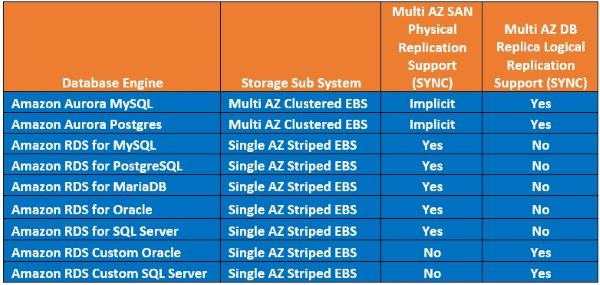
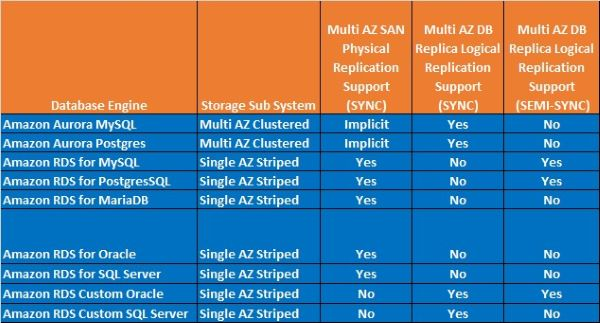
added semi-sync details

diff --git a/posts/zero-dataloss-dr-using-rds/index.md b/posts/zero-dataloss-dr-using-rds/index.md
@@ -90,8 +90,11 @@ To restore a RDS Cloud Native database would need a restore of the full backup +
 Disaster Recovery in Amazon RDS is based on Multi AZ or Multi Region database copies where we have a physically separate database copy located in a different physical location. This Database copy could be replicated using SAN or Database technologies with the latter protecting against disk corruptions. The replication used between database copies to keep them identical or near identical as possible could use asynchronous or synchronous replication depending on the replication technology used.
   
 ## Logical Replication vs Physical Replication
- 'How' we replicate RDS Database replication for DR is generally considered to be either Synchronous (SYNC) where we wait for data to be committed on both the primary RDS database in its AZ and standby RDS database in a different AZ before continuing or Asynchronous(ASYNC) where we  send the data from the primary RDS database in its AZ to the standby RDS database in a different AZ but do not wait for data to be committed. Amazon Aurora also provides Synchronous Clustered where we allow the decoupled storage to perform replication with no direct waiting once handed to the storage tier to complete.
-These 3 types of replication are depicted below:
+ 'How' we replicate RDS Database for DR is generally considered to be either Synchronous (SYNC) where we wait for data to be committed on both the primary RDS database in its AZ and standby RDS database in a different AZ before continuing or Asynchronous(ASYNC) where we  send the data from the primary RDS database in its AZ to the standby RDS database in a different AZ but do not wait for data to be committed. For database engines RDS Postgres and RDS MySQL we also have the concept of Semi-Synchronous(SEMISYNC). SEMISYNC requires 2 replica's to support the primary database, where the commit is only considered persisted when 1 of the 2 replica's has confirmed the changes have been recieved. Note we say recieved not applied so in theory a double outage of both the primary and replica in receipt of change may still have a chance of data loss.
+
+  Amazon Aurora also provides Synchronous Clustered where we allow the decoupled storage to perform replication with no direct waiting once handed to the storage tier to complete.
+
+These 4 types of replication are depicted below:
   
 ![Replication Async vs Sync](images/pic9_replication_sync_vs_async.jpg "Figure 9. Replication Async vs Sync")
   
@@ -99,17 +102,17 @@ These 3 types of replication are depicted below:
 
 Using a physical DR copy, where the replication is at the SAN Level tracking disk block changes. This type of replication is always synchronous. Within Amazon RDS this is referred to as Multi AZ replication and only supports Multi AZ not Multi Region. One of the drawbacks of physical replication is that it will replicate disk corruptions. Persisted disk corruptions should be considered a very rare occurrence but never the less they need to be catered for. As a physically replicated DR uses synchronous replication we can assume an RPO of 0 when not dealing with disk corruptions.
 
-Using a logical DR copy, where the replication is at the DB level tracking DB transactional changes. This can be either synchronous where supported or asynchronous replication. One of the key advantages of logical replication is that it supports both cross AZ and cross Region replication. Logical database copies are referred to as Replica copies. For a logical DR copy disk corruption should not be replicated and this is key point for any ZDLDR solution. If the logical replication is asynchronous it has the potential to drift (Lag) behind the Primary site, but this doesn't necessarily mean data loss if site switches are planned or graceful.
+Using a logical DR copy, where the replication is at the DB level tracking DB transactional changes. This can be either synchronous where supported or asynchronous replication, but if using 2 replica and RDS MySQL or RDS Postres we have the semi-synchronous mode as well discusesed above. One of the key advantages of logical replication is that it supports both cross AZ and cross Region replication. Logical database copies are referred to as Replica copies. For a logical DR copy disk corruption should not be replicated and this is key point for any ZDLDR solution. If the logical replication is asynchronous it has the potential to drift (Lag) behind the Primary site, but this doesn't necessarily mean data loss if site switches are planned or graceful.
 
 Using a clustered physical copy, where the replication is handled by the intelligent storage tier mirroring multiple copies of data across all available AZs. This is only supported for Amazon Aurora which uses a clustered decoupled storage layer, here the physical replication must be replicated at least 4 ways across all available AZs to be considered in sync and eventually 6 ways, its uses what's called a 4 of 6 Quorum for writes. Due to the always synchronous clustered storage replication of Aurora we can assume an RPO of 0. We should note that Amazon Aurora clustered replication is only supported within the same region, though cross regions replication is supported asynchronously. Disk corruptions present on Amazon Aurora will selfheal from one of the healthy copies of the data, there will be a minimum of 4 copies and eventually 6 so this is very effective against disk corruption. 
 
-'What' and 'How' we replicate with regard to Amazon RDS can be a Logically Replicated Replica for Amazon RDS or a Physically Replicated Replica if using Amazon Aurora or lastly a Physically Replicated Multi AZ copy for Amazon RDS.
+'What' and 'How' we replicate with regard to Amazon RDS can be a Logically Replicated Replica(s) for Amazon RDS or a Physically Replicated Replica if using Amazon Aurora or lastly a Physically Replicated Multi AZ copy for Amazon RDS.
 
 A replica in Amazon RDS or Amazon Aurora represents a database that also has the potential to be used as an additional Read Only copy of the live database while still being kept in sync with all changes. Using Amazon RDS Oracle there is an extra license fee  to use a Read Only copy known as Active Dataguard, hence with this database engine we can also have the replica in a recovery mode only not accessible for Read Only access where that license fee is then not required this is called a mounted replica. Amazon Aurora Replica are based on the decoupled clustered storage that is automatically replicated across all AZs. This allows Amazon Aurora replica's to be stood up with no extra overhead or copying of transactions. Furthermore for Amazon Aurora we don't even need to stand up replica as the potential to create one is still there at any time as the data is clustered across all available AZ to facilitate that.
 
-Logical replication runs asynchronously for Cloud Enabled RDS Replica's RDS Oracle, RDS Postgres, RDS MySQL and RDS MariaDB. One exception is RDS SQL Server which utilises a feature called 'Always On' or 'Mirroring' where the replication to the secondary site is a logical synchronous apply under the covers. The other exception is Oracle RDS Custom, using RDS Custom users are able to access the underlying operating system and also make certain customisations that are not possible under normal Amazon RDS Regular. One of the customisations that is possible for Oracle is to setup logical synchronous replication to the replica database.
+Logical replication runs asynchronously for Cloud Enabled RDS Replica's RDS Oracle, RDS Postgres, RDS MySQL and RDS MariaDB. But can run semi-synchronous if using RDS Postgres or RDS MySQL with 2 Replica's. RDS SQL Server which utilises a feature called 'Always On' or 'Mirroring' where the replication to the secondary site is a logical synchronous apply under the covers. The other exception is Oracle RDS Custom, using RDS Custom users are able to access the underlying operating system and also make certain customisations that are not possible under normal Amazon RDS Regular. One of the customisations that is possible for Oracle is to setup logical synchronous replication to the replica database.
 
-We can see below which database engines support SYNC replication so therefore RPO 0 depending on the replication type.
+We can see below which database engines support SYNC and SEMISYNC replication so therefore potentially an RPO 0 depending on the replication type.
   
 ![RDS Engines that support Sync](images/pic10_table_sync_support.jpg "Figure 10. RDS Engines that support Sync")
   
@@ -128,7 +131,7 @@ EBS where our database s/w and data is stored is redundant and highly available,
 
 In general a Level 1 failure should not result in potential data loss unless there is a disk corruption, but even disk corruption to some degree can be minimised depending on how Multi AZ copies are created.
 
-The next level of failure would be an entire Availability Zone failure, let's call this a failure at Level 2. A Level 2 failure would need a disaster recovery site to continue the operation of the database service. If using a Multi AZ database setup then there should be no data loss for synchronously replicated databases. For asynchronously replicated database there could be some lag and potential data loss. If there is no multi AZ RDS database then it's also possible to use backups to reinstate the database service but these could be upto 5 minutes behind the lost site.
+The next level of failure would be an entire Availability Zone failure, let's call this a failure at Level 2. A Level 2 failure would need a disaster recovery site to continue the operation of the database service. If using a Multi AZ database setup then there should be no data loss for synchronously replicated databases. For asynchronously replicated database there could be some lag and potential data loss. For semi-synchrounsly replicated databases there should be zero datalos if no futher impacting issue on the site that has confirmed receipt of the changes. If there is no multi AZ RDS database then it's also possible to use backups to reinstate the database service but these could be upto 5 minutes behind the lost site.
 
 The next level of failure would be loss of an entire Region(s), let's call this a failure at Level 3. A Level 3 failure always has the potential for data loss, as database replication across regions will be asynchronous due to the distances data must travel to be replicated.  Multi region backups will lag even further behind the live Region as well. We could possibly assume an RPO of minutes for cross region DR, though this is dependent as mentioned on speed, distance and database load activity.
 
@@ -150,12 +153,12 @@ Putting all of this together we can derive which RDS configuration will support 
 ![Summary Zero Dataloss Table](images/pic13_table_zdldr_solutions.jpg "Figure 13. Summary Zero Dataloss Table")
   
 ## Architecting for Near Zero Data Loss
-The purpose of this article is architecting for ZDLDR, but we can reduce the likelihood of data loss for those Engines that do not support a logical synchronous replica or run on Amazon Aurora. We have alluded to this earlier as well, those RDS Engines of Oracle, PostgreSQL, MySQL, MariaDB also support Multi AZ with one standby replica. This setup would create a defence against disaster with the Multi AZ SAN copy being used in the majority of DR scenarios. The replica would exist to support edge case disk corruption with the acceptance it will run ASYNC so could lag behind, but even so it would provide extra recoverability options and also potentially provide the opportunity to off load reporting if used as a Read Replica. Also the database using this setup would have the protection of 3 AZ's providing further protection against disaster.
+The purpose of this article is architecting for ZDLDR, but we can reduce the likelihood of data loss for those Engines that do not support a logical synchronous replica or run on Amazon Aurora. RDS Engines of Oracle, PostgreSQL, MySQL, MariaDB also support Multi AZ with one standby replica. This setup would create a defence against disaster with the Multi AZ SAN copy being used in the majority of DR scenarios. The replica would exist to support edge case disk corruption with the acceptance it will run ASYNC so could lag behind, but even so it would provide extra recoverability options and also potentially provide the opportunity to off load reporting if used as a Read Replica. Also the database using this setup would have the protection of 3 AZ's providing further protection against disaster. In many ways this is simlar to semi-synchronous replication supported by RDS MySQL and RDS Postgres but you have then benifit of both types of DR supporting your HA.
   
 ![3 way AZ RDS Replication](images/pic14_3_way_az.jpg "Figure 14. 3 way AZ RDS Replication")
   
 ## Summary
-Architecting for Zero Data Loss is certainly a possibility utilising Amazon RDS, due to edge case disk corruption only logical synchronous replicas or Amazon Aurora can be considered to cater for this. The cloud enabled enterprise class database giants that are Oracle and SQL Server both support this. But what truly stands out is the cloud native offering from Amazon Aurora which is out of the box ready to support zero data loss disaster recovery from day 0. If a ZDRDL solution can't be used then we can achieve a near ZDLDR solution utilising Multi AZ replication with an additional replica across all 3 AZs.
+Architecting for Zero Data Loss is certainly a possibility utilising Amazon RDS, due to edge case disk corruption only logical synchronous replicas or Amazon Aurora can be considered to cater for this. The cloud enabled enterprise class database giants that are Oracle and SQL Server both support this. RDS MySQL and RDS Postgres also support ZDLDR under most circumstances but requires 2 replica's.But what truly stands out is the cloud native offering from Amazon Aurora which is out of the box ready to support zero data loss disaster recovery from day 0. If a ZDRDL solution can't be used then we can achieve a near ZDLDR solution utilising Multi AZ replication with an additional replica across all 3 AZs.
 
 ## Further Reading and References
 - Documentation
